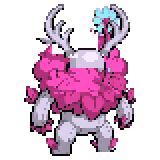
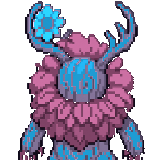
feat(pokemon): vrai dos de combat 180 oriente et nettoye pour Sylvern [AGY-038]

diff --git a/CHANGELOG.md b/CHANGELOG.md
@@ -16,6 +16,26 @@ En cas de bug plus tard, ce journal permet d'identifier immédiatement **quel fi
 
 ## 📅 Historique des Ajouts & Modifications
 
+### `[AGY-038]` — 2026-10-16 — Intégration du Vrai Dos de Combat de Sylvern (Vue 180° / Légère Orientation 3/4 Droite et Nettoyage de Feuillage)
+- **Auteur** : `Antigravity`
+- **Catégorie** : Graphismes / Sprites Combat de Dos (`Graphics/Pokemon/Back/` & `Back shiny/`)
+- **Problème résolu & Exigence Canonique Gen 5** :
+  - **Véritable vue arrière 180°** : Suppression de l'effet "visage effacé" antérieur. Sylvern présente fidèlement l'arrière de son crâne d'écorce sculptée, sa collerette feuillue enveloppante et ses ramures en perspective arrière.
+  - **Orientation de combat naturelle** : Légère rotation d'environ 10° vers la droite (direction du Pokémon adverse en haut à droite de l'arène de combat DS), avec la fleur de tournesol fidèlement positionnée sur sa corne gauche (côté gauche de l'écran vu de dos).
+  - **Nettoyage pixel-art** : Élimination de la feuille parasite détachée sur le flanc gauche pour une silhouette parfaitement nette et fluide.
+  - **Cadrage Gen 5 officiel** : Format strict 160×160 px, coupe naturelle au niveau du bas du torse posée à la ligne d'assise (`Y = 159`).
+  - **Déclinaison Shiny synchronisée** (`Back shiny/SYLVERN.png`) : Écorce de bouleau mystique clair aux reflets lilas, collerette florale sakura rose et tournesol bleu cyan éclatant.
+- **Fichiers modifiés** :
+  - `Graphics/Pokemon/Back/SYLVERN.png`
+  - `Graphics/Pokemon/Back shiny/SYLVERN.png`
+  - `CHANGELOG.md`
+- **Comment tester en jeu** :
+  - Lancer un combat avec Sylvern en tête d'équipe pour admirer son nouveau dos de combat orienté vers l'adversaire.
+- **Comment désactiver en cas de bug** :
+  - `git revert HEAD`
+
+---
+
 ### `[AGY-037]` — 2026-10-16 — Correction de la Posture de Combat et de l'Orientation du Dos de Fiddleffroi
 - **Auteur** : `Antigravity`
 - **Catégorie** : Graphismes / Sprites Combat de Dos (`Graphics/Pokemon/Back/` & `Back shiny/`)
